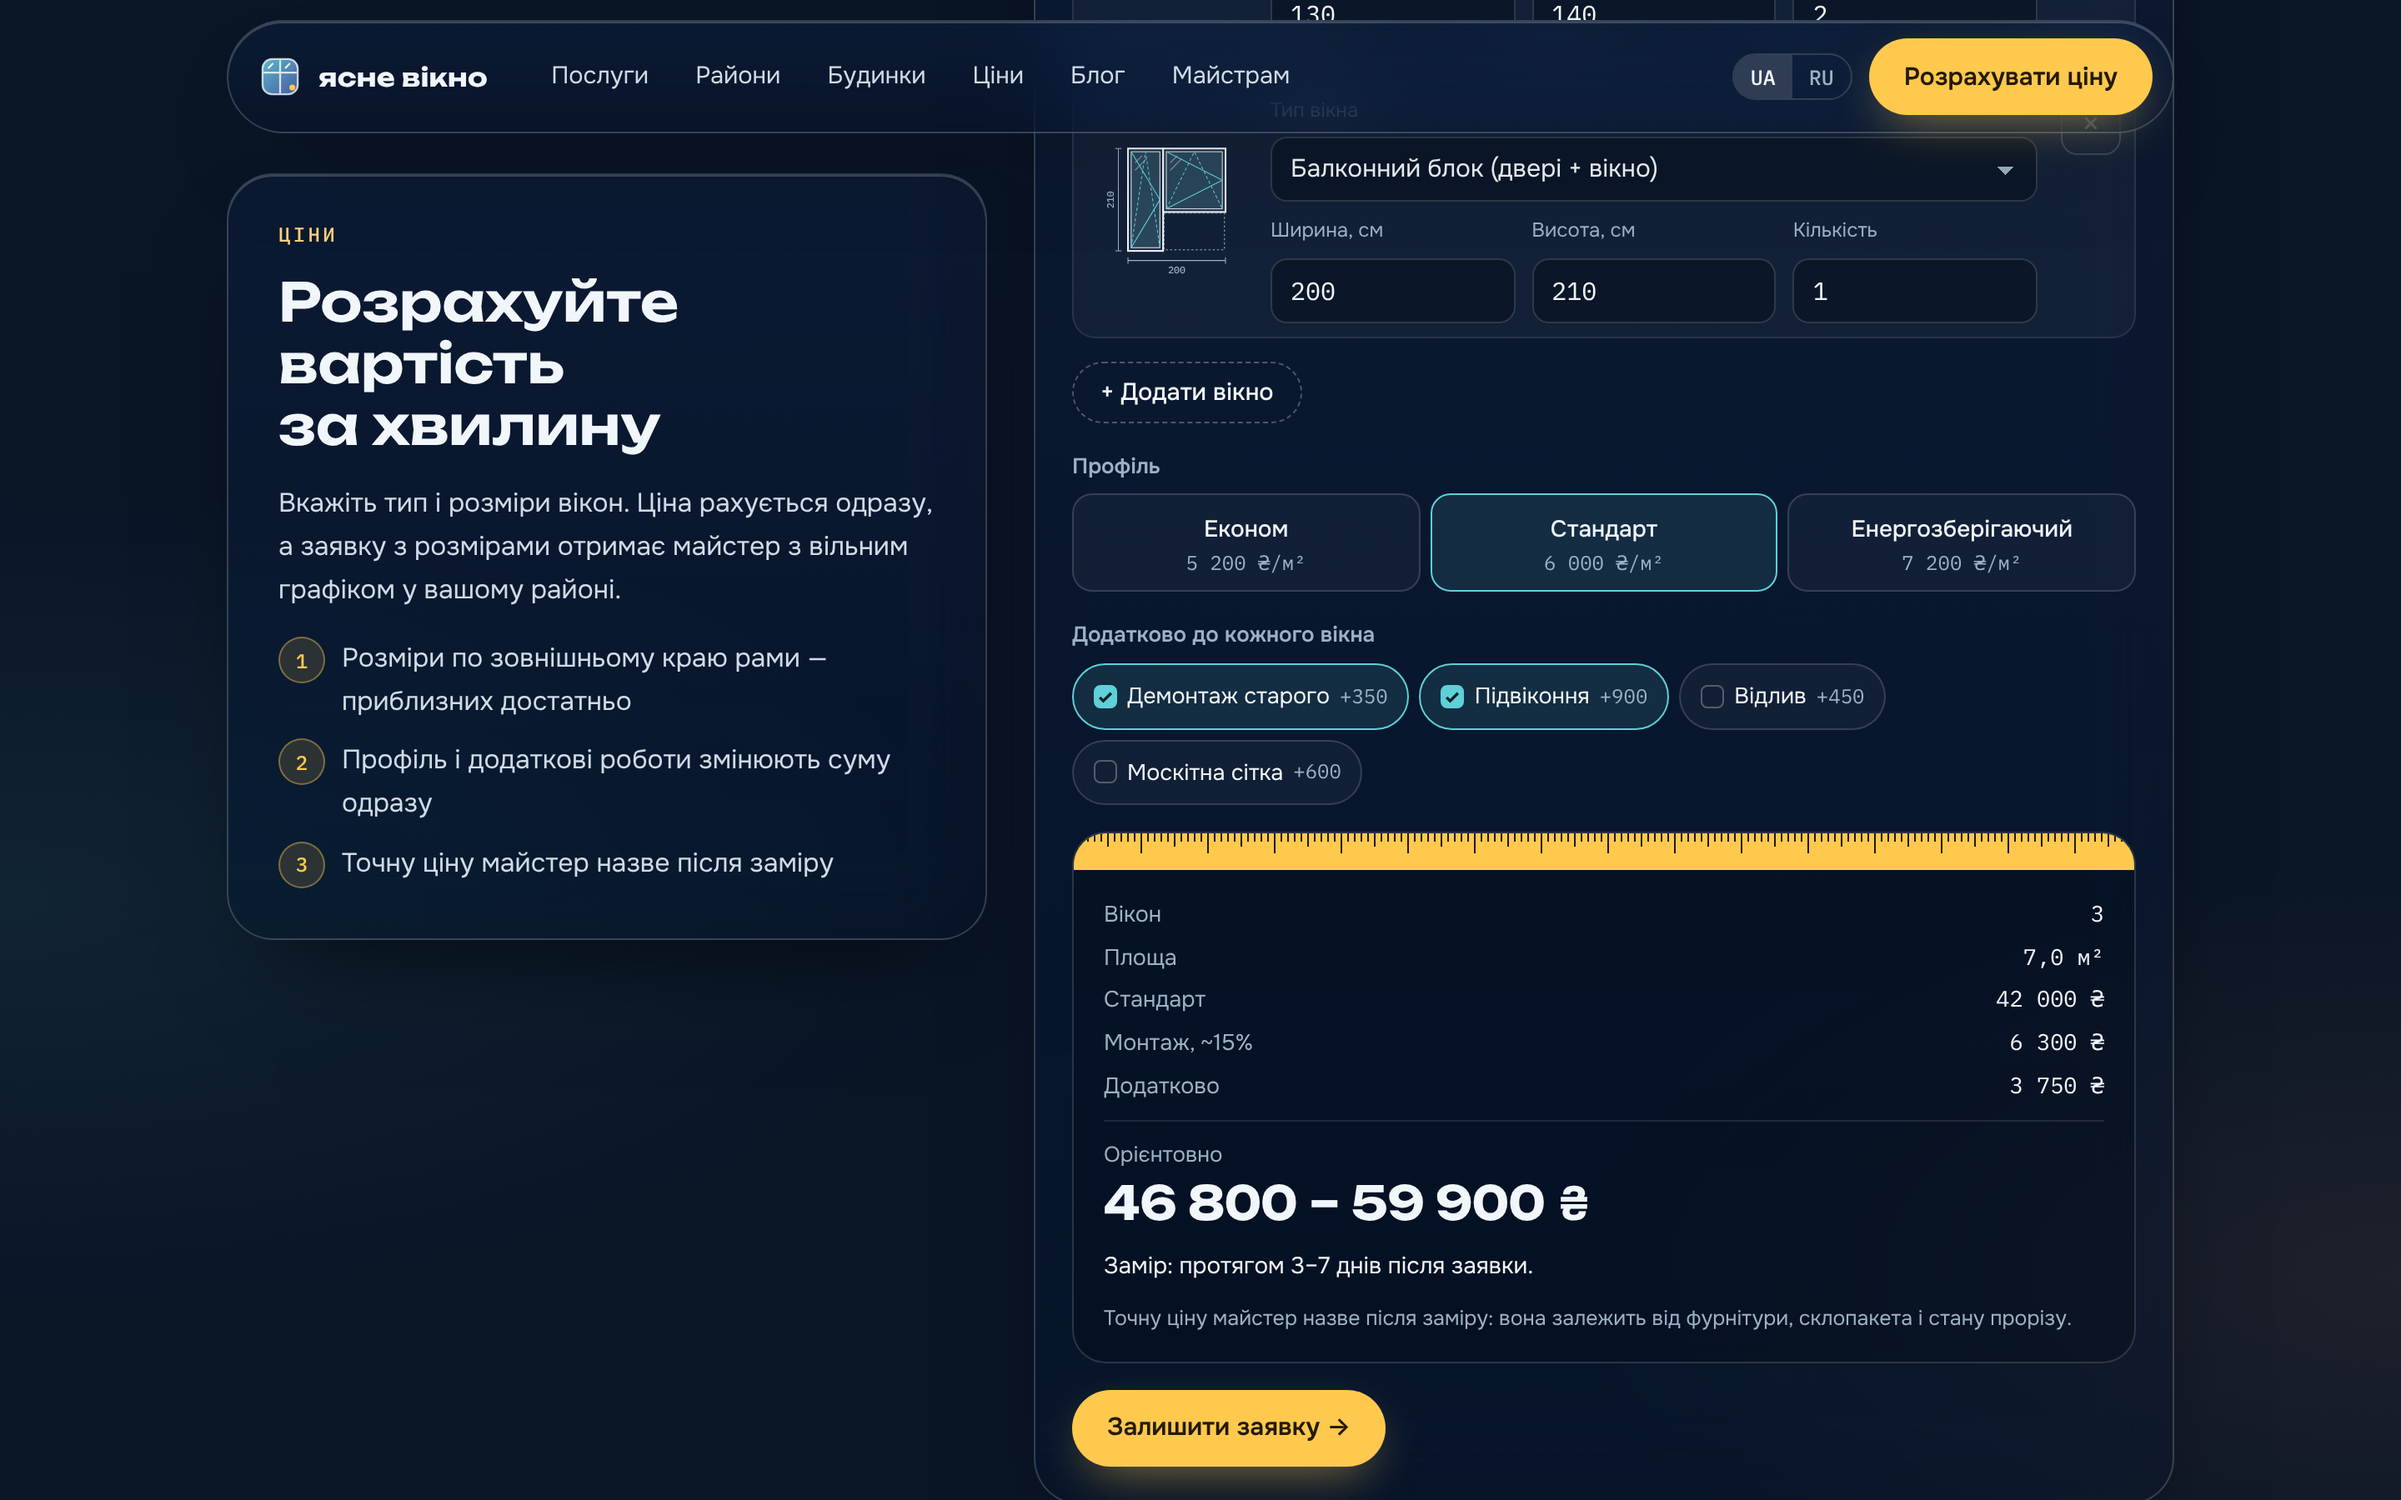
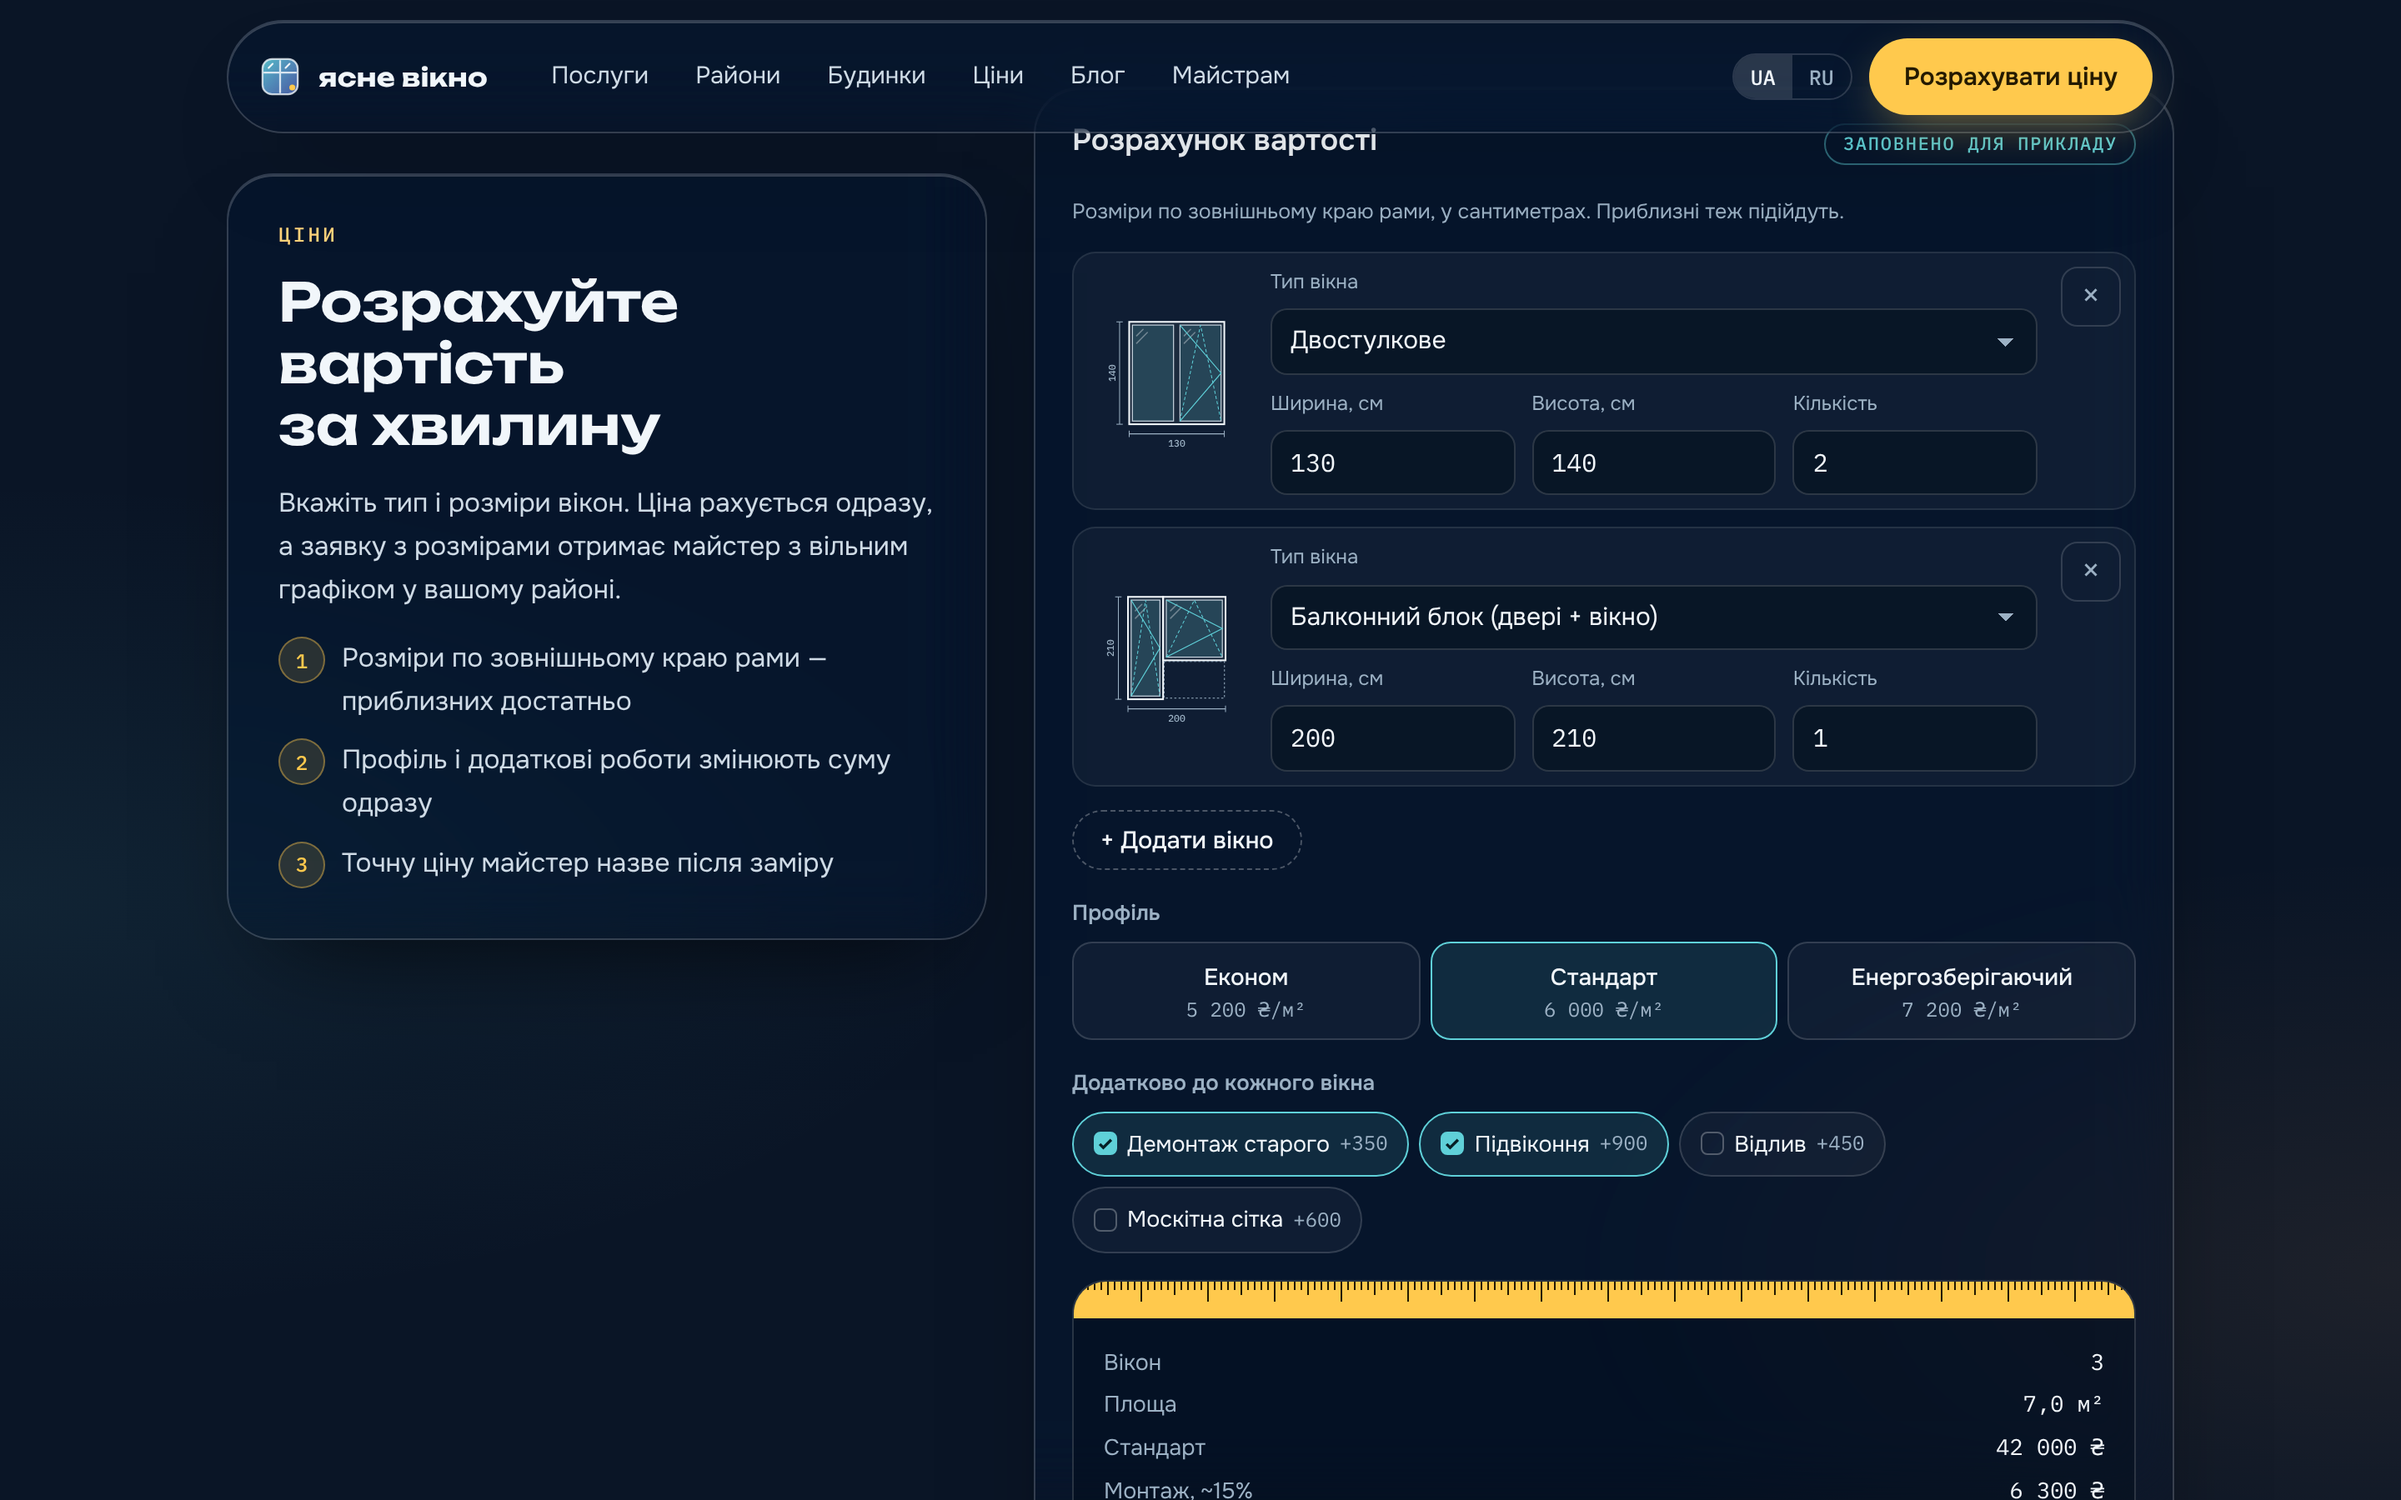
Match the live hero to the chosen Kyiv-at-dusk mockup
Same skyline as the mockup (single row of panel blocks), lighter glass,
mockup hero text and sizes, full-height first screen, and a placeholder
seed-posts module so the blog compiles until starter posts are written.

Claude-Session: https://claude.ai/code/session_01CZrcwK3sURJka2yPaaSm3f

diff --git a/src/app/globals.css b/src/app/globals.css
@@ -57,18 +57,18 @@ h1, h2, h3, h4 { margin: 0; text-wrap: balance; }
 p { margin: 0; }
 .mono { font-family: var(--font-mono); font-variant-numeric: tabular-nums; }
 
-/* Kyiv at dusk behind the first screen */
+/* Kyiv at dusk behind the first screen (matches the chosen mockup) */
 .sky {
-  position: absolute; top: 0; left: 0; right: 0; height: max(100vh, 780px); z-index: -1; pointer-events: none; overflow: hidden;
+  position: absolute; top: 0; left: 0; right: 0; height: 100vh; min-height: 760px; z-index: -1; pointer-events: none; overflow: hidden;
   background:
-    radial-gradient(70% 45% at 50% 100%, rgba(255, 170, 90, 0.5), transparent 70%),
-    linear-gradient(180deg, #0c1d3a 0%, #1b2f58 40%, #4a4b78 66%, #a0627a 84%, #e39a6a 100%);
+    radial-gradient(60% 40% at 50% 100%, rgba(255, 170, 90, 0.55), transparent 70%),
+    linear-gradient(180deg, #0e2140 0%, #2a3c66 45%, #a0627a 80%, #e39a6a 100%);
 }
-.sky .city { position: absolute; left: 0; bottom: 0; width: 100%; height: min(56%, 520px); object-fit: cover; object-position: center bottom; max-width: none; }
-.sky .haze { position: absolute; left: 0; right: 0; bottom: 0; height: 120px; background: linear-gradient(180deg, transparent, #0a1526); }
+.sky .city { position: absolute; left: 0; bottom: 0; width: 100%; height: 62%; object-fit: cover; object-position: center bottom; max-width: none; }
+.sky .haze { position: absolute; left: 0; right: 0; bottom: 0; height: 36px; background: linear-gradient(180deg, transparent, #0a1526); }
 /* Glass */
 .glass {
-  background: linear-gradient(180deg, rgba(18, 30, 54, 0.5), rgba(10, 20, 36, 0.38));
+  background: rgba(10, 20, 36, 0.35);
   border: 1px solid rgba(255, 255, 255, 0.18);
   border-radius: var(--r-l);
   box-shadow: inset 0 1px 0 rgba(255, 255, 255, 0.2), 0 30px 60px -30px rgba(0, 0, 0, 0.7);
@@ -127,7 +127,7 @@ body::before { content: ""; position: fixed; inset: 0 0 auto; height: env(safe-a
 @media (max-width: 640px) { .header-phone, .header-cta { display: none; } .header-bar { padding-left: 14px; } }
 
 /* Hero */
-.hero { padding-top: 40px; padding-bottom: 24px; }
+.hero { padding-top: 44px; padding-bottom: 24px; }
 .hero-grid { display: grid; grid-template-columns: minmax(0, 1.05fr) minmax(0, 0.95fr); gap: 28px; align-items: start; }
 .hero-copy { display: grid; gap: 22px; padding: clamp(22px, 3.4vw, 40px); border-radius: var(--r-xl); }
 .hero-actions { display: flex; flex-wrap: wrap; gap: 10px; }
@@ -380,9 +380,11 @@ table.atable th { color: var(--muted); font: 500 11.5px/1 var(--font-mono); lett
 @media (max-width: 560px) { .calc .wrow { grid-template-columns: 74px minmax(0, 1fr) auto; } .calc .wdraw { width: 74px; } }
 
 /* Hero: copy + service shortcuts */
-.hero-grid.dusk { grid-template-columns: minmax(0, 1.15fr) minmax(0, 0.85fr); align-items: start; }
-.hero-grid.dusk .h1 { font-size: clamp(28px, 3.5vw, 46px); }
-.hero-grid.dusk .hero-copy { padding: clamp(22px, 3vw, 36px); }
+.hero-grid.dusk { grid-template-columns: minmax(0, 1.1fr) minmax(0, 0.9fr); gap: 24px; align-items: start; }
+.hero-grid.dusk .h1 { font-size: clamp(30px, 3.5vw, 50px); line-height: 1.06; }
+.hero-grid.dusk .hero-copy { padding: clamp(22px, 2.8vw, 40px); gap: 20px; }
+.hero-grid.dusk .lead { font-size: clamp(16px, 1.25vw, 18px); max-width: none; }
+.svc b { font-size: 18px; }
 .hero-facts { display: flex; flex-wrap: wrap; gap: 8px 20px; color: var(--ink-2); font-size: 14.5px; }
 .hero-facts b { color: var(--ink); }
 .svc-stack { display: grid; gap: 12px; }
@@ -400,3 +402,4 @@ table.atable th { color: var(--muted); font: 500 11.5px/1 var(--font-mono); lett
 .calc-aside li span { width: 28px; height: 28px; border-radius: 50%; display: grid; place-items: center; background: rgba(255, 201, 77, 0.14); border: 1px solid rgba(255, 201, 77, 0.4); color: var(--amber); font: 500 12px var(--font-mono); }
 @media (max-width: 960px) { .hero-grid.dusk, .calc-section { grid-template-columns: minmax(0, 1fr); } }
 @media (max-width: 560px) { .svc { grid-template-columns: auto minmax(0, 1fr); } .svc .p { grid-column: 2; } }
+@media (min-width: 961px) { .hero:has(.dusk) { min-height: calc(100vh - 84px); } }

diff --git a/src/i18n/dict.ts b/src/i18n/dict.ts
@@ -25,7 +25,7 @@ const uk = {
   home: {
     eyebrow: "Київ · заміна і ремонт вікон",
     h1: "Заміна і ремонт вікон у Києві без черги на місяць",
-    lead: "Вкажіть розміри вікон і одразу побачите орієнтовну ціну. Ми передамо заявку перевіреному майстру з вільним графіком, і він зателефонує вам сам.",
+    lead: "Вкажіть розміри — і одразу побачите ціну. Ми передамо заявку майстру з вільним графіком, він зателефонує вам сам.",
     facts: [
       { b: "{days} днів", s: "до заміру" },
       { b: "Ціна одразу", s: "ще до виїзду майстра" },
@@ -218,7 +218,7 @@ const ru: Dict = {
   home: {
     eyebrow: "Киев · замена и ремонт окон",
     h1: "Замена и ремонт окон в Киеве без очереди на месяц",
-    lead: "Укажите размеры окон и сразу увидите ориентировочную цену. Мы передадим заявку проверенному мастеру со свободным графиком, и он позвонит вам сам.",
+    lead: "Укажите размеры — и сразу увидите цену. Мы передадим заявку мастеру со свободным графиком, он позвонит вам сам.",
     facts: [
       { b: "{days} дней", s: "до замера" },
       { b: "Цена сразу", s: "ещё до выезда мастера" },

diff --git a/src/content/seed-posts.ts b/src/content/seed-posts.ts
@@ -1,0 +1,4 @@
+import type { SeedPost } from "./types";
+
+// Placeholder: replaced by the real starter posts.
+export const seedPosts: SeedPost[] = [];
